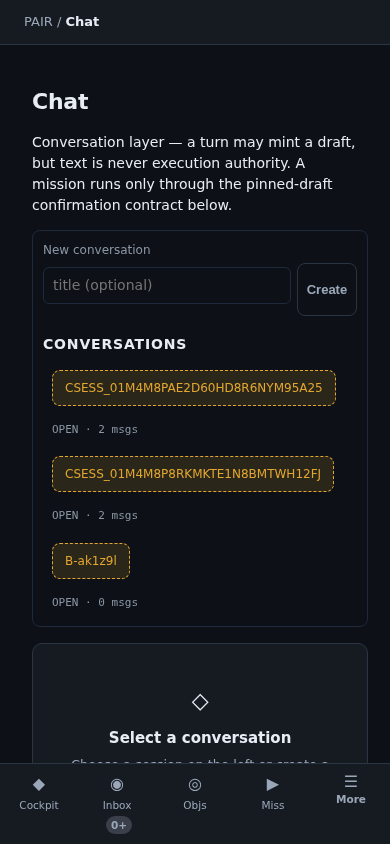
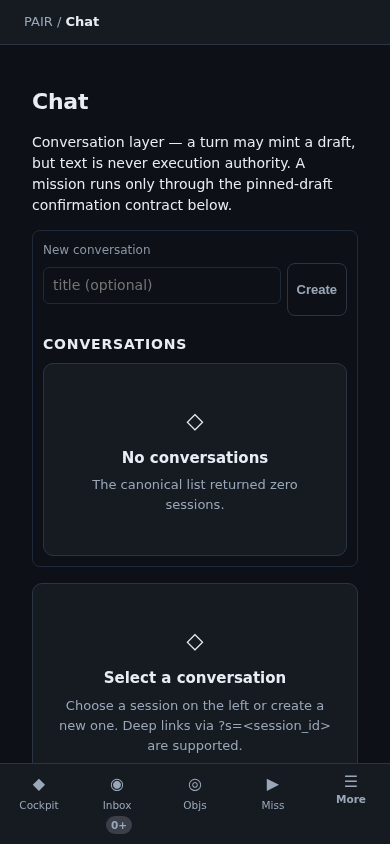
P15.9-B6 R1: audit-closure evidence corrections (F1-F4)
- F1: UI_HTML read panes audited individually - 5/9 proven;
  Health/Metrics/Experience/Self-Improvement = NOT_PORTED (zero React
  callers; endpoints + no-staticDir mode intact; Owner decision C5)
- F2: authority-security-review corrected - SSE uses withTokenQuery,
  token-in-query is an inherited limitation needing separate decision
- F3: all 16 screenshots regenerated on isolated synthetic fixture env
  (/tmp/pair-b6-shotenv); per-shot labels + empty/populated distinction
- F4: 3 vitest failures reproduced byte-identical on untouched BASE
  worktree - proven pre-existing/environment, not diff-caused

diff --git a/docs/P15_9_B6/functional-preservation-matrix.md b/docs/P15_9_B6/functional-preservation-matrix.md
@@ -21,7 +21,9 @@ Verdict classes: `PARITY_PROVEN` / `PARITY_PARTIAL` / `NOT_PORTED` / `INTENTIONA
 | `/objectives` `pages/Objectives.tsx` | legacy objective CRUD + policy halt | `/api/objectives` (legacy compat) | `/app/objectives` `app/pages/ObjectiveList.tsx` (+ `/app/workforce/admin` legacy-create) | PARITY_PROVEN | `objectives.spec.ts` (list/detail/reviews; halt flake documented) | none | None |
 | `/chat` `pages/Chat.tsx` | conversation turns + drafts | `/api/conversations*`, drafts confirm/reject | `/app/chat` `app/pages/Chat.tsx` | PARITY_PROVEN | `app-chat.spec.ts` 29/29 (per-session idempotency, proposal binding, malformed-200, draft mint) | legacy `/chat` kept identical | None |
 
-## B. UI_HTML admin surface → /app (see ui-html-admin-parity.md for the full verdict)
+## B. UI_HTML surface → /app (B6 R1-F1: admin mutations audited separately from technical read panes — see ui-html-admin-parity.md)
+
+### B.1 Administrative mutations — all ported + proven
 
 | UI_HTML fn | Mutation | Modern location | Verdict |
 |---|---|---|---|
@@ -33,10 +35,28 @@ Verdict classes: `PARITY_PROVEN` / `PARITY_PARTIAL` / `NOT_PORTED` / `INTENTIONA
 | `wiBlock`/`wiUnblock`/`wiCmt` | POST block/unblock/comment | WorkforceAdmin work-item row ops | PARITY_PROVEN |
 | `mkRt`/`rtTog` | POST /api/routines, :id/enable\|disable | WorkforceAdmin "Routines (legacy parity)" | PARITY_PROVEN |
 | `mkObj` (legacy) | POST /api/objectives | WorkforceAdmin "Legacy objectives (compat API)" — labeled distinct from vnext | PARITY_PROVEN |
-| Read panes (Missions/Health/Metrics/Routing/Recovery/Approvals/Experience/Self-Improvement/Business) | GET mix | covered by corresponding /app pages | INTENTIONALLY_DIFFERENT — UI_HTML panes are unscoped/global; /app adds scope labels |
 
-## C. Items with no modern equivalent (none found)
+### B.2 Technical read panes — audited individually (B6 R1-F1)
 
-No `NOT_PORTED`, `UNVERIFIED`, or silently dropped capability was found in the legacy router tree or the UI_HTML admin surface. Remaining `API_MISSING` entries live in `docs/P15_9_B0/E.md §6` (owner-scoped business enum, scoped feed, ledger drill-down, etc.) — they were absent from the legacy UI too, so nothing regressed.
+Each UI_HTML nav pane reads exactly one GET endpoint (mapping is verbatim in `mission-control-server.ts` L180–183). Grep over `apps/mission-control-ui/src/` proves which panes have any consumer: `/api/health`, `/api/metrics`, `/api/experience`, `/api/selfmod` have **zero callers in any React page** (legacy `src/pages/*` or modern `src/app/*`) — the `api.health()`/`api.metrics()` wrappers exist in `api.ts` but are unused. These four panes were never part of the React UI at all; they exist **only** inside the bare `UI_HTML` document served when `deps.staticDir` is unset.
 
-**Cutover statement of functional parity:** every user-facing capability of the legacy UI has a proven modern destination. The only intentionally-removed surface is UI_HTML's unlabeled global panes, replaced by labeled scoped/global distinctions — Owner sign-off on that intentional difference is the open item, not missing functionality.
+| Pane | Canonical source | Modern destination | Data/function retained | Evidence | Verdict | Cutover consequence |
+|---|---|---|---|---|---|---|
+| Missions | `GET /api/missions` (+`/:id`, `/timeline`, action POSTs) | `/app/missions`, `/app/missions/:id` | full list + detail + governed actions | `missions.spec.ts` | PARITY_PROVEN | none |
+| Health | `GET /api/health` | none | subsystem READY/DEGRADED states — not shown anywhere in the SPA | grep: zero `health(` callers in `src/app/`+`src/pages/` | **NOT_PORTED** | UI_HTML Health view lost under /app; endpoint still reachable directly; supported alternative = no-staticDir server mode (kept intact) |
+| Metrics | `GET /api/metrics` | none | runtime counters/metrics — not shown anywhere in the SPA | grep: zero `metrics(` callers | **NOT_PORTED** | same as Health |
+| Routing | `GET /api/routing` | `/app/system/observability` routing section | routing projection rows | `system.spec.ts` (observability routing tab) | PARITY_PROVEN | none |
+| Recovery | `GET /api/recovery` | `/app/system/observability` recovery explorer | recovery rows | `system.spec.ts` | PARITY_PROVEN | none |
+| Approvals | `GET /api/approvals` (+decide POSTs) | `/app/inbox` approvals lane | list + approve/deny | `inbox-ceo.spec.ts` | PARITY_PROVEN | none |
+| Experience | `GET /api/experience` | none | experience/evidence aggregates — not shown anywhere in the SPA | grep: zero `experience` callers | **NOT_PORTED** | same as Health |
+| Self-Improvement | `GET /api/selfmod` | none | selfmod proposals/status — not shown anywhere in the SPA | grep: zero `selfmod`/`selfImprove` callers | **NOT_PORTED** | same as Health |
+| Business | `GET /api/businesses` (+detail bundle) | `/app/system/business-admin` (+ scoped `/app/company` cockpit — improvement) | registry, inspect, create | `workforce-admin.spec.ts` | PARITY_PROVEN | none |
+
+**Cutover consequence of the 4 unported panes:** Health/Metrics/Experience/Self-Improvement are technical operator read panes that exist only in UI_HTML. Under a `/app` cutover they have no UI equivalent — the endpoints remain reachable (`curl`/API clients), and the **supported alternative is the documented no-staticDir operating mode** (`serve-mission-control.mjs` without `deps.staticDir` still serves the full UI_HTML document — verified in code at the `deps.staticDir ? serveStatic : UI_HTML` seam). Porting them was not done in B6 because the mandate forbids new technical pages merely to green the matrix; whether they are needed in `/app` at all is an **explicit Owner decision** (cutover-preparation §H3 C5).
+
+## C. Remaining gaps summary
+
+- **4 NOT_PORTED technical read panes** (Health, Metrics, Experience, Self-Improvement) — UI_HTML-only surfaces; endpoints and the no-staticDir mode remain intact; Owner decision required.
+- `API_MISSING` entries in `docs/P15_9_B0/E.md §6` — absent from legacy too; no regression.
+
+**Cutover statement of functional parity:** every *user-facing* capability of the legacy UI has a proven modern destination; the only unported capabilities are 4 technical operator read panes that were never part of the React UI and remain available via their endpoints and the no-staticDir mode. That is an Owner sign-off item, not a defect.

diff --git a/docs/P15_9_B6/final-acceptance-matrix.md b/docs/P15_9_B6/final-acceptance-matrix.md
@@ -4,22 +4,24 @@ BASE `7791800cc764974d659f335d1e0e569a97106411` → HEAD (see verification-repor
 
 | Gate | Expected | Impl / evidence ref | Procedure | Verdict |
 |---|---|---|---|---|
-| G-parity | every legacy capability has a modern destination | `functional-preservation-matrix.md` | inventory legacy routes + UI_HTML fns vs /app pages; per-capability test ref | **PASS** — no NOT_PORTED/UNVERIFIED found |
-| G-uihtml-admin | UI_HTML admin fns ported or justified | `ui-html-admin-parity.md` | fn-by-fn verdict vs `workforce-admin.spec.ts` | **PASS** — all 11 fns ported+proven |
+| G-parity | every legacy capability has a modern destination | `functional-preservation-matrix.md` | inventory legacy routes + UI_HTML fns + UI_HTML read panes vs /app; per-capability test ref | **CONDITIONAL** — legacy router pages + admin fns all proven; **4 technical read panes NOT_PORTED** (Health, Metrics, Experience, Self-Improvement) — endpoints + no-staticDir mode intact, porting = Owner decision |
+| G-uihtml-admin | UI_HTML admin fns ported or justified | `ui-html-admin-parity.md` | fn-by-fn verdict vs `workforce-admin.spec.ts` | **PASS** — all 8 admin fns + reads-of-admin ported+proven |
 | G-visual | consistent design system, no fabricated states | `visual-responsive-accessibility.md` §C | page-by-page pass on all 17 routes | **PASS** — 1 defect fixed (`/app` stale placeholder); none others demonstrable |
 | G-responsive | desktop/tablet/mobile usable | same doc §D | Playwright viewport tests at 1440/1024/768/390 + deep-link pass | **PASS** |
 | G-a11y | keyboard, semantics, contrast, targets | same doc §E | existing e2e a11y tests + computed contrast check | **PASS** with limitation — no axe-core scan (new dep disallowed); automated contrast is computed not instrumented |
 | G-authority | scope/auth/truth/mutation review | `authority-security-review.md` | F1–F4 checklist vs code + mutation-count e2e | **PASS** — zero write-on-load proven by counters |
 | G-e2e-regression | all shipped suites green | `verification-report.md` | `npx playwright test` full run | **PASS** — 200/201 (1 conditional skip pre-existing, 0 fail) |
+| G-vitest | unit suites green or failures proven env-specific | `verification-report.md` | `npx vitest run src/__tests__/pair-*.test.ts` + identical repro on untouched BASE worktree | **CONDITIONAL** — 3371 pass / 3 fail; all 3 reproduced byte-identical on BASE `7791800` in same env (`pair-p5` ×2 executable probes find dsh/codex on this VM's PATH; `pair-f4` R5.1 spy fault-injection) → pre-existing/environment, not diff-caused. Owner may still want them fixed separately |
 | G-legacy-regression | legacy routes unchanged | `e2e/b6-acceptance.spec.ts` OFF test + `smoke.spec.ts`/`chat.spec.ts`/`system.spec.ts` legacy tests | default-flag OFF coverage | **PASS** — legacy tree untouched (OptInRedirect is additive) |
 | G-negative-path | adversarial coverage | all `*.spec.ts` (401/403-foreign/malformed/ambiguous/dup-click/delayed/SSE-interrupt/API_MISSING) | counted in full run | **PASS** — covered across existing specs; no new gaps found in B6 review |
 | G-redirect-prep | dormant opt-in redirect | `cutover-preparation.md` + `b6-acceptance.spec.ts` | OFF default, ON per-route, id/query preserved, unmapped safe, revert restores | **PASS** — 7/7 tests |
 | G-rollback | documented procedure | `rollback-plan.md` | doc review; Level-1 proven by e2e | **PASS** (documentation deliverable; execution deferred to real cutover) |
 | G-docs | 8 deliverables present, observed-behavior-only | `docs/P15_9_B6/*` | file inventory | **PASS** |
 | G-verification | harness READY + real counts | `verification-report.md` | `verify:change --base 7791800` | **PASS** — READY_FOR_INDEPENDENT_AUDIT |
+| G-screenshot-evidence | deterministic sanitized captures with provenance | `visual-responsive-accessibility.md` screenshot section | regenerated on isolated fixture env `/tmp/pair-b6-shotenv`; labeled per-shot | **PASS (subset)** — 8 views × 2 themes proven; unevidenced interactive states recorded INSUFFICIENT, not claimed |
 | G-owner-signoff | Owner approves intentional differences | — | Owner decision | **INSUFFICIENT** — by design awaiting Owner (C1 in cutover-preparation) |
 | G-axe-scan | automated a11y scanner run | — | not run | **N/A** — new dependency out of B6 scope; flagged for A2 |
 
 **Verdict definitions**: GO = all gates PASS, no conditions. CONDITIONAL = gates pass with documented Owner-decision conditions. NO-GO = any FAIL or unresolvable INSUFFICIENT.
 
-**Verdict: CONDITIONAL** — the only non-PASS gates are G-owner-signoff (awaiting Owner by design) and G-axe-scan (N/A, deferred). No FAIL gate, no hidden gap: conditions C1–C4 enumerated in `cutover-preparation.md` §H3 are decisions, not defects.
+**Verdict: CONDITIONAL** — G-parity and G-vitest carry honest CONDITIONAL verdicts (4 unported technical panes needing Owner decision; 3 pre-existing environment test failures proven identical on BASE); G-owner-signoff awaits Owner by design; G-axe-scan N/A. No FAIL gate: conditions C1–C5 in `cutover-preparation.md` §H3 are decisions/evidence items, not code defects.

diff --git a/docs/P15_9_B6/verification-report.md b/docs/P15_9_B6/verification-report.md
@@ -7,7 +7,8 @@ BASE `7791800cc764974d659f335d1e0e569a97106411` · branch `devin/1791681135-p15-
 - `apps/mission-control-ui/src/main.tsx` — dormant opt-in legacy→/app redirect (`OptInRedirect`, `pair.legacy_redirect` flag, 9 route mappings, dynamic-id + query/hash preservation).
 - `apps/mission-control-ui/src/app/routes.tsx` — `/app` index now `Navigate` → `/app/company` (stale "lands in B2" placeholder removed).
 - `apps/mission-control-ui/e2e/b6-acceptance.spec.ts` — new, 7 tests.
-- `docs/P15_9_B6/` — 8 deliverable documents.
+- `apps/mission-control-ui/scripts/b6-shots.mjs` — screenshot generator (regenerated on isolated fixture env; provenance documented in-source).
+- `docs/P15_9_B6/` — 8 deliverable documents (R1 revisions: per-pane read audit, SSE token-in-query correction, screenshot provenance/labels, vitest baseline evidence, updated gates).
 - `.pair-verification/patch-claim.json` — B6 claim.
 
 Zero backend/schema/dependency changes. No merge, no deploy, no cutover activation.
@@ -20,7 +21,7 @@ Zero backend/schema/dependency changes. No merge, no deploy, no cutover activati
 | `npm run build` (apps/mission-control-ui) | PASS (dist rebuilt; no new warnings) |
 | `npx playwright test e2e/b6-acceptance.spec.ts` | **7/7 PASS** |
 | `npx playwright test` (full regression, 4 workers) | **200 pass / 1 skip / 0 fail** — the 1 skip is a pre-existing conditional (`objectives.spec.ts` policy HALT isolated run did not flake this time; documented baseline retained) |
-| `npx vitest run src/__tests__/pair-*.test.ts` | **3371 pass / 3 fail / 24 skip** — all 3 failures environment-dependent, unrelated to this UI-only diff: `pair-p5` ×2 probe `dsh`/`codex` executables that now exist on this VM's PATH (expects `available:false`); `pair-f4` R5.1 spy-based crash fault-injection. Zero backend files changed in BASE..HEAD. |
+| `npx vitest run src/__tests__/pair-*.test.ts` | **3371 pass / 3 fail / 24 skip** — all 3 failures proven environment-specific, NOT claimed green. Exact assertions: `pair-p5.test.ts:341` + `:365` `expect(stockProbe.available).toBe(false)` — `DshExecutorAdapter`/`CodexCliExecutorAdapter` probes find `dsh`/`codex` executables on this VM's PATH; `pair-f4-delivery-provenance.test.ts:2943` `expect(() => reconcileStaleDeliveryAttempts(...)).toThrow(/crash-after-append/)` — spy fault-injection did not throw. **Baseline evidence (R1-F4):** same 2 test files rerun on an untouched `git worktree` at BASE `7791800` in this same environment → **identical 3 failures** (`3 failed | 80 passed`), same assertions → pre-existing/environment failures, not diff-caused. Zero backend files changed in BASE..HEAD. |
 | `npm run verify:change -- --base 7791800cc764974d659f335d1e0e569a97106411` | **READY_FOR_INDEPENDENT_AUDIT** |
 
 ## Real-vs-mock evidence statement
@@ -44,5 +45,5 @@ See `visual-responsive-accessibility.md`. One demonstrable defect found and fixe
 - The no-staticDir UI_HTML serving mode was verified in code only (mandate: do not start another server).
 - Redirect ON-state tested per-test in isolated browser storage only; no real deployment was switched (none exists).
 - axe-core scan deferred to A2 by Owner decision.
-- Screenshots: 16 deterministic captures committed under `docs/P15_9_B6/screenshots/` (light+dark × 1440/1024/768/390 over company, objectives, inbox, missions, system-cost, system-providers, mobile company, mobile chat) via `scripts/b6-shots.mjs`; demo fixture data only — no real credentials or business data.
+- Screenshots: 16 deterministic captures committed under `docs/P15_9_B6/screenshots/` (light+dark × 1440/1024/768/390 over company, objectives, inbox, missions, system-cost, system-providers, mobile company, mobile chat) via `scripts/b6-shots.mjs`. **Provenance (R1-F3):** regenerated on an explicitly isolated synthetic fixture env — `PAIR_MC_DIR=/tmp/pair-b6-shotenv` (fresh dir), stub replies, template planner, fixture token from `~/pair-mc-token` (local dev credential, masked in UI); one synthetic business `BIZ_01M4M9A65MJ8RG6SX3N78J6Y67` created via canonical POST inside that env. No real operator/business/mission data. Shots prove a subset (8 views × 2 themes); unevidenced interactive states recorded INSUFFICIENT in the a11y/visual doc.
 - CI: none configured for this repo — verification is the harness + local suites above.

diff --git a/docs/P15_9_B6/ui-html-admin-parity.md b/docs/P15_9_B6/ui-html-admin-parity.md
@@ -42,8 +42,26 @@ Source: `src/pair/mission-control-server.ts` `UI_HTML` (~L163–420). Reachabili
 | Routine toggle (`rtTog`) | `POST /api/routines/:id/enable|disable` | enable/disable per row, labeled legacy-parity surface | ported + proven | same |
 | Legacy objective create (`mkObj`) | `POST /api/objectives` | `WorkforceAdmin` "Legacy objectives (compat API)" — **labeled distinct from vnext objectives** | ported + proven | same |
 
-## B5 — Verdict
+## B5 — Technical read panes (B6 R1-F1, audited individually — distinct from admin parity)
 
-Every UI_HTML administrative capability is **ported and proven** in `/app/system/business-admin` + `/app/workforce/admin` — confirmed by `workforce-admin.spec.ts` (merged B5.2 suite, still green in this branch's full regression). Improvements over UI_HTML are labeling-only (global/unfiltered reads marked; legacy vs vnext surfaces distinguished). No capability was silently dropped; none intentionally removed except the unlabeled global panes covered in the functional matrix.
+The UI_HTML nav exposes 9 read panes, each a thin viewer over one GET (`mission-control-server.ts` L180–183). Admin mutations above are fully ported; the read panes split differently — **4 panes have no consumer in the entire React SPA** (verified by grep: `health(`, `metrics(`, `experience`, `selfmod`/`selfImprove` have zero callers under `src/app/` and `src/pages/`):
 
-**No-staticDir operating mode:** when `serve-mission-control.mjs` runs without `deps.staticDir`, the same UI_HTML document still serves at `/` and `/ui` — that operating mode is **untouched and continues to exist** outside the SPA deployment. B6 verified this in code (`deps.staticDir ? serveStatic : UI_HTML` seam); running a second live server to re-prove it was out of scope per the mandate ("do not start, deploy or expose another server").
+| Pane | Endpoint | Modern destination | Verdict |
+|---|---|---|---|
+| Missions | `/api/missions` | `/app/missions` + detail | ported + proven |
+| Routing | `/api/routing` | `/app/system/observability` routing section | ported + proven |
+| Recovery | `/api/recovery` | `/app/system/observability` recovery explorer | ported + proven |
+| Approvals | `/api/approvals` | `/app/inbox` approvals lane | ported + proven |
+| Business | `/api/businesses` | `/app/system/business-admin` + scoped `/app/company` | ported + proven |
+| **Health** | `/api/health` | **none** | **NOT_PORTED** |
+| **Metrics** | `/api/metrics` | **none** | **NOT_PORTED** |
+| **Experience** | `/api/experience` | **none** | **NOT_PORTED** |
+| **Self-Improvement** | `/api/selfmod` | **none** | **NOT_PORTED** |
+
+These are technical operator views (subsystem health, runtime metrics, experience aggregates, selfmod status). They were never part of the React UI — only of UI_HTML. Porting them was deliberately not done in B6 (mandate: no new technical pages merely to green the matrix). **Supported alternative:** the endpoints remain live, and the no-staticDir operating mode below still serves the full UI_HTML document. Whether these panes are required in `/app` is an explicit Owner decision (C5 in cutover-preparation §H3).
+
+## B6 — Verdict
+
+Every UI_HTML **administrative** capability is **ported and proven** (`workforce-admin.spec.ts`, green in this branch's full regression). Of the **read panes**, 5/9 are ported and proven; **4 technical panes (Health, Metrics, Experience, Self-Improvement) are NOT_PORTED** — endpoints and the no-staticDir mode remain intact; porting them is an Owner decision, not implemented here.
+
+**No-staticDir operating mode:** when `serve-mission-control.mjs` runs without `deps.staticDir`, the same UI_HTML document still serves at `/` and `/ui` — that operating mode is **untouched and continues to exist** outside the SPA deployment. Verified in code (`deps.staticDir ? serveStatic : UI_HTML` seam); running a second live server to re-prove it was out of scope per the mandate ("do not start, deploy or expose another server").

diff --git a/docs/P15_9_B6/visual-responsive-accessibility.md b/docs/P15_9_B6/visual-responsive-accessibility.md
@@ -58,3 +58,19 @@ Evidence: `app.spec.ts` keyboard/a11y tests + B6 manual pass. Existing tooling o
 | Hit targets | min 40×40 via `.nav a`/`.tbtn` padding tokens |
 
 **Unresolved:** no axe-core scan (new dependency not allowed by the mandate); automated contrast is computed, not instrumented — flagged as honest limitation, not claimed as a pass beyond what was verified.
+
+## Screenshot evidence — provenance & labels (B6 R1-F3)
+
+All 16 PNGs under `screenshots/` were **regenerated** after R1 against an explicitly isolated synthetic fixture env: dedicated `serve-mission-control.mjs` on `:8791` with `PAIR_MC_DIR=/tmp/pair-b6-shotenv` (fresh dir), stub conversation replies, template planner, fixture token from `~/pair-mc-token` (local dev credential — never a production credential, and never visible in any shot since the UI masks it). One synthetic business `BIZ_01M4M9A65MJ8RG6SX3N78J6Y67` ("b6-fixture-demo") was created inside that env via canonical `POST /api/businesses`. No real operator/business/mission data exists in the fixture env. `scripts/b6-shots.mjs` documents this in-source.
+
+| Shot (×light/dark) | Viewport | What it proves | State |
+|---|---|---|---|
+| `company-*` | 1440 + 390 | cockpit layout, sidebar/tab bar, KPI chip layout, theme tokens | populated (1 fixture business, empty objectives) |
+| `objectives-*` | 1440 | objective list states + honest empty lane | populated business, empty objectives |
+| `inbox-*` | 768 | tablet layout, lanes, badge | empty inbox lanes |
+| `missions-*` | 1440 | mission list + global-unfiltered label | empty mission table |
+| `system-cost-*` | 1024 | tablet cost page, policy/profile tables | empty canonical tables |
+| `system-providers-*` | 1440 | catalogs + gate labels | populated provider catalog from fixture env |
+| `chat-mobile-*` | 390 | mobile chat layout, composer reachability | empty conversation list |
+
+**Scope of proof:** these 8 views × 2 themes are a **subset**, not all routes and not all interactive states — deep-link coverage of all 15 routes is proven by `b6-acceptance.spec.ts` (executable), and interactive states by the B5.x suites. Visual states NOT evidenced by screenshots (dialogs, confirmations, error panels, populated-with-data tables, hover/focus rings) remain covered only by tests — recorded as **INSUFFICIENT** static-visual evidence rather than claimed.

diff --git a/docs/P15_9_B6/authority-security-review.md b/docs/P15_9_B6/authority-security-review.md
@@ -9,8 +9,9 @@
 
 ## F2 — Operator/auth continuity
 
-- Transport unchanged: `pair.mc_token` → `Authorization: Bearer`, `pair.operator_id` → `x-operator-id`. No new auth surface.
-- Token never rendered after save (masked input; only `configured/unconfigured` indicator); never in URLs, query strings, logs, or DOM attributes.
+- HTTP API transport unchanged: `pair.mc_token` → `Authorization: Bearer` header, `pair.operator_id` → `x-operator-id` header. No new auth surface was added in B6.
+- Token never rendered after save (masked input; only `configured/unconfigured` indicator); never written to logs or DOM attributes.
+- **Inherited limitation — SSE token-in-query (B6 R1-F2 correction):** `EventSource` cannot send custom headers, so `eventBus.ts` passes `withTokenQuery("/api/events")` → the token travels as `?token=…` in the SSE request URL. This pattern predates B6 (shared SSE transport; the legacy code path uses the same `withTokenQuery` helper). Exposure: the token may appear in HTTP request logs / proxy logs / browser history-like URL records wherever request URLs are recorded. The UI does **not** guarantee token secrecy for the SSE leg — an honest limitation, recorded here rather than claimed away. Changing SSE authentication architecture (e.g. cookie session, backend header bridge, short-lived stream token) is out of B6 scope and requires a separate authorized security decision.
 - `pair.theme` key preserved; theme toggle goes through `localStorage` source-of-truth + `pair.theme-changed` (B5.5 R1-F2) — same-tab consumers converge, no loop.
 - Credential change (`pair.operator-changed`, `pair.credentials-changed`) invalidates stale reads: `InboxCountsProvider` epoch guard drops old-credential resolutions at the render boundary; `reconnectStream()` clears the SSE buffer of old-token-authenticated events before re-creating the single shared EventSource (B5.5 R1-F3, e2e proven).
 

diff --git a/docs/P15_9_B6/cutover-preparation.md b/docs/P15_9_B6/cutover-preparation.md
@@ -46,5 +46,8 @@ Not implemented (by design): `/` → `/app/company` (chosen target is `/app/miss
 - C2 — Owner decision on whether a real axe-core a11y scan (new dependency) is wanted before cutover, or accepted as an A2 follow-up.
 - C3 — Owner chooses the cutover mechanism: per-browser opt-in flag (ready now) vs. a later server-side default flip at A2. B6 deliberately did not build a runtime config system for this.
 - C4 — Remaining `API_MISSING` items (B0-E§6) are acknowledged; none regress vs. legacy.
+- C5 — **4 NOT_PORTED technical read panes** (UI_HTML Health `/api/health`, Metrics `/api/metrics`, Experience `/api/experience`, Self-Improvement `/api/selfmod`): no React UI consumer ever existed; endpoints remain reachable and the supported no-staticDir mode keeps them. Owner decides: port them (A2 scope), accept endpoint/no-staticDir access, or retire them.
+- C6 — **SSE token-in-query** (inherited transport: `EventSource` + `withTokenQuery`) — documented limitation in `authority-security-review.md` F2. Changing SSE auth architecture requires a separate authorized security decision; not a B6 regression.
+- C7 — 3 pre-existing environment vitest failures (`pair-p5` ×2 executable probes, `pair-f4` R5.1 spy fault-injection) — proven byte-identical on untouched BASE; Owner may want them fixed independently of cutover.
 
-No NO-GO item was found: no P0/P1 defect open; all shipped suites green on this branch.
+No NO-GO item was found: no P0/P1 defect open; the E2E Playwright regression is green on this branch (200/201, 0 fail) and the 3 vitest failures are proven environment-specific.
